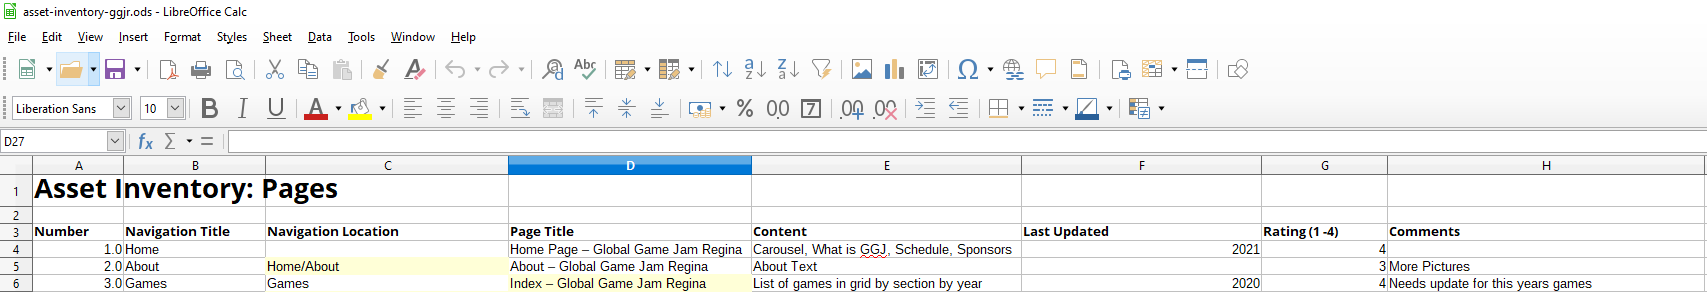
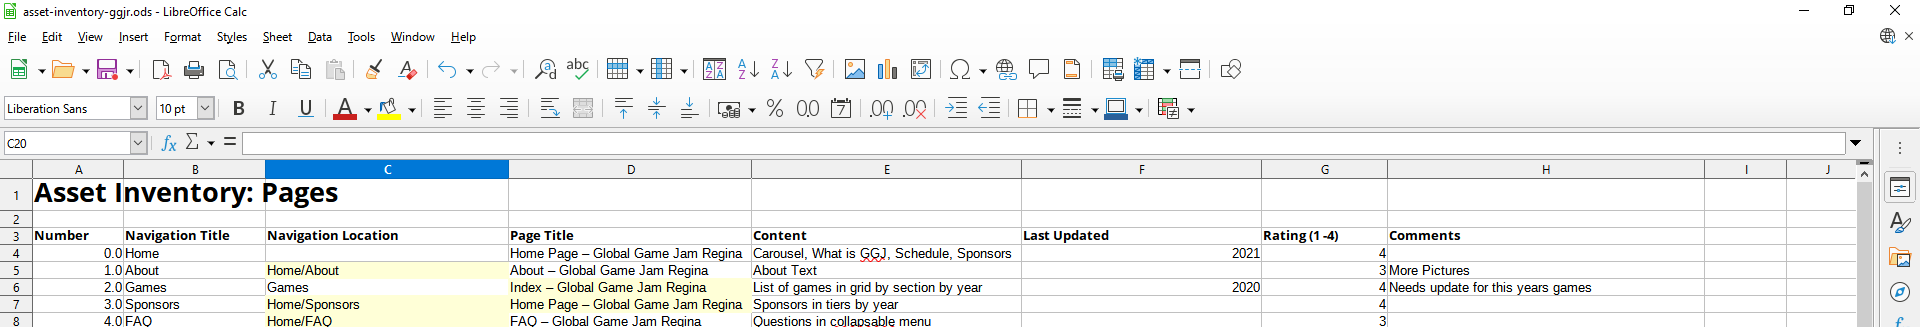
update page numbering

diff --git a/lab-2/lab-doc.md b/lab-2/lab-doc.md
@@ -61,7 +61,7 @@ Example Sitemap:
 
 Note on Hierarchies:
 
-The following diagram shows several ways you can draw out wide hierarchies, but just one way to communicate a deep hierarchy. Students occasionally confuse a vertical display of a wide hierarchy for a deep hierarchy, and I agree, it's confusing, but you do see it this way every once in a while...
+The following diagram shows several ways you can draw out wide hierarchies, but just one way to communicate a deep hierarchy. Students occasionally confuse a vertical display of a wide hierarchy for a deep hierarchy, and while it can be confusing, it's important to understand the difference to interpret others' maps.
 
 ![Hierarchy][Hierarchy]
 
@@ -81,7 +81,7 @@ The following diagram shows several ways you can draw out wide hierarchies, but 
     - other asset types may include `videos`, `icons`, `ui elements` (`buttons`), `audio`, `fonts`, `palettes` and `databases`.
     - It is increasingly popular to use assets hosted by third party services, such as icons and fonts, with trade-offs to this approach
 
-- During design the asset inventory should be done before or in parallel the sitemap. This way, you are ensuring that your site structure matches your content, and not the other way around. This is called `content first` design.
+- During design the asset inventory should be created before or in parallel the sitemap. This way, you are ensuring that your site structure matches your content, and not the other way around. This is called `content first` design.
 
 - It is important to track these assets so that, at a glance, one can easily see which assets are found, and which ones are still needed. Highlighting is great for this. It can also be useful to see when assets were last updated, to quickly catch ones that might need an update. 
 
